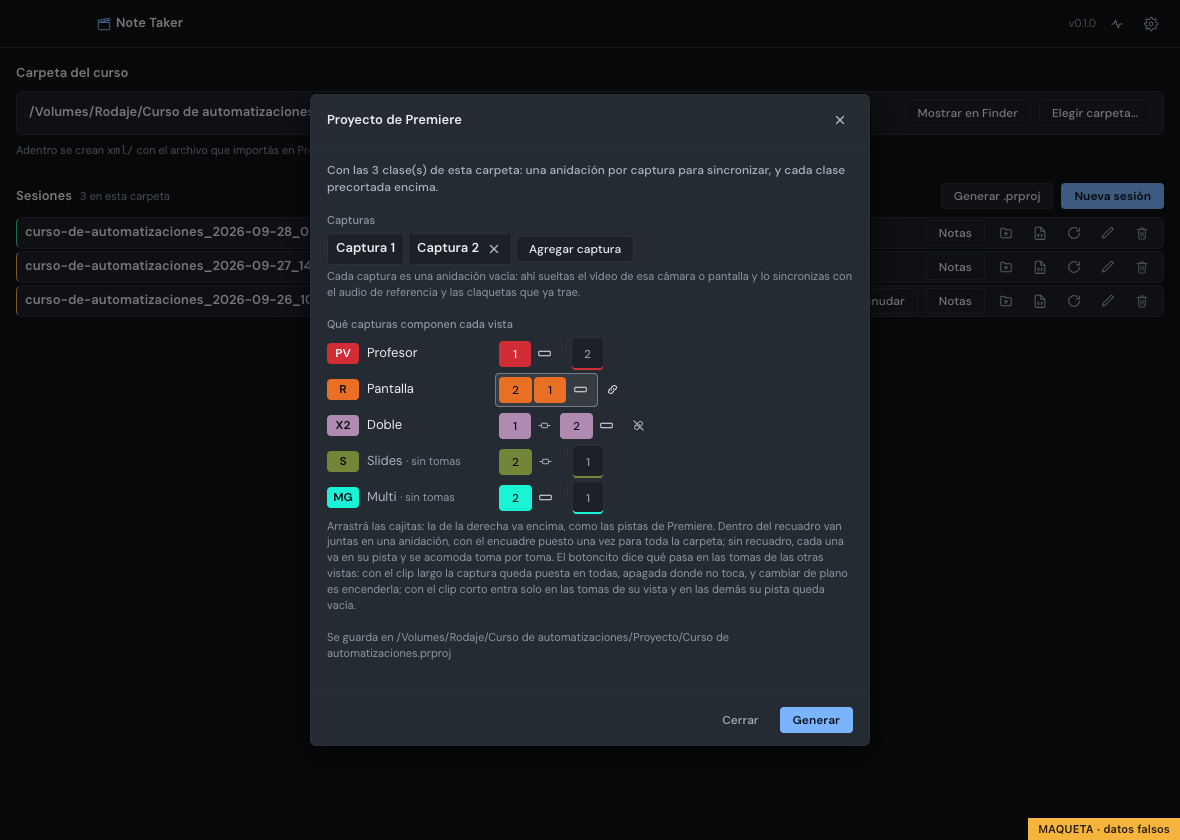
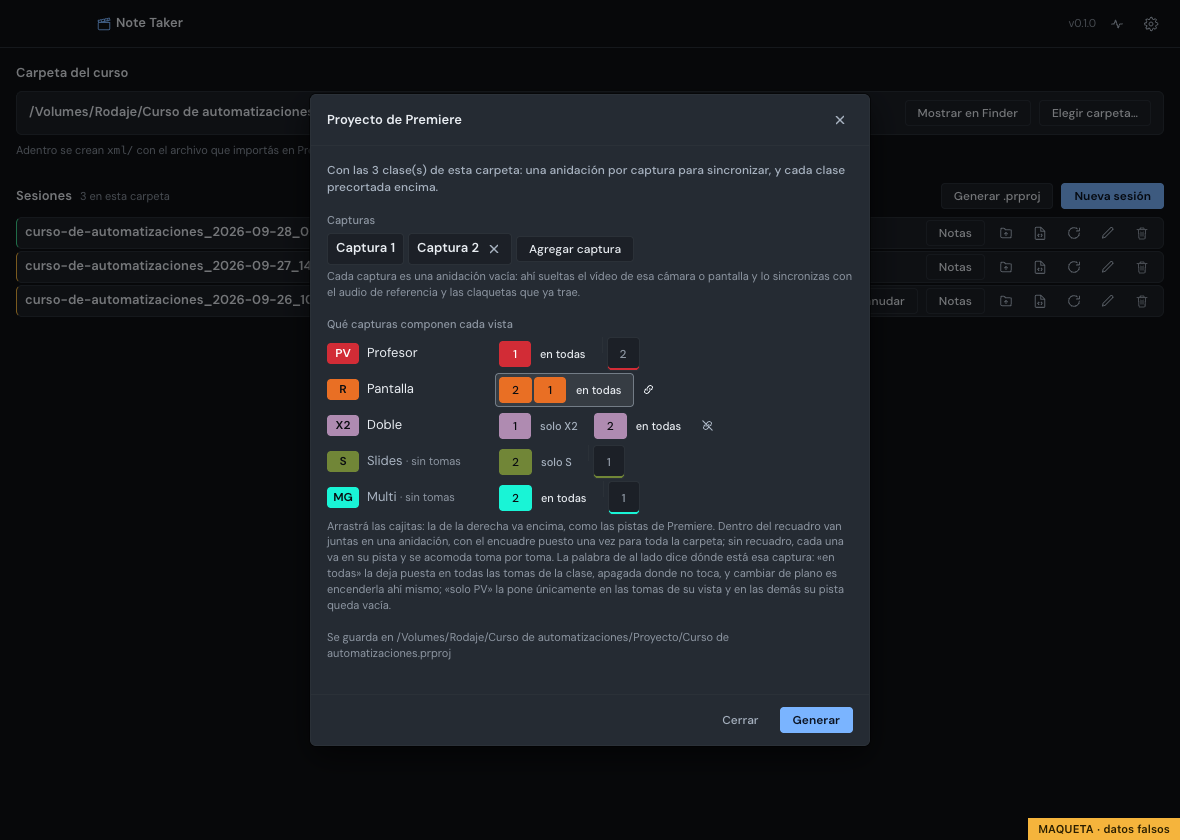
En el menú del .prproj, la palabra en lugar del cuadradito
Dónde está una captura —en todas las tomas de la clase, o solo en las de su
vista— estaba dicho con un dibujo: la pista vista de lejos, un clip largo
contra uno corto. A 15 px eran dos rectángulos que no decían nada y había que
apretarlos para enterarse de qué hacían.

Ahora lo dice la palabra que la captura lleva al lado: «en todas» o «solo PV»,
con la sigla de su vista. Es la misma regla que el resto de la app, donde los
estados van en palabras y no en color ni en forma, y de paso se lee la fila
entera de un vistazo sin pasar por ningún tooltip.

El hueco entre una captura y la siguiente se abrió a 8 px —adentro de la cajita
sigue en 1— porque con el mismo hueco de los dos lados «solo X2» parecía la
palabra de la captura de al lado. Y al soltar un arrastre, antes o después se
mide ahora contra el NÚMERO y no contra la cajita entera: la cajita incluye la
palabra, así que su mitad caía dentro de ella y soltar sobre el número vecino
siempre significaba «antes».

diff --git a/src/js/panel-prproj.js b/src/js/panel-prproj.js
@@ -121,16 +121,16 @@ function pintar() {
 
     // Lo del apilado sale solo cuando hay algo apilado: con una captura por
     // vista no hay nada que ordenar ni que anidar, y sería una línea de ruido.
-    // Lo del botoncito está siempre, porque el botoncito está siempre.
+    // Lo de «en todas» está siempre, porque esa palabra está siempre.
     const hayPilas = Object.values(config.vistas).some(v => v.capturas.length > 1);
     $('#prproj-pilas-dice').textContent = (hayPilas
         ? 'Arrastrá las cajitas: la de la derecha va encima, como las pistas de Premiere.'
             + ' Dentro del recuadro van juntas en una anidación, con el encuadre puesto una vez para'
             + ' toda la carpeta; sin recuadro, cada una va en su pista y se acomoda toma por toma. '
         : '')
-        + 'El botoncito dice qué pasa en las tomas de las otras vistas: con el clip largo la captura'
-        + ' queda puesta en todas, apagada donde no toca, y cambiar de plano es encenderla; con el'
-        + ' clip corto entra solo en las tomas de su vista y en las demás su pista queda vacía.';
+        + 'La palabra de al lado dice dónde está esa captura: «en todas» la deja puesta en todas las'
+        + ' tomas de la clase, apagada donde no toca, y cambiar de plano es encenderla ahí mismo;'
+        + ' «solo PV» la pone únicamente en las tomas de su vista y en las demás su pista queda vacía.';
 }
 
 /**
@@ -153,7 +153,7 @@ function cajita(vista, suya, id, encendida) {
                 >${id}</button>`;
     if (!encendida) return chip;
     // El número es el asa del arrastre y la cajita entera es el sitio donde se
-    // suelta: así soltar sobre el botoncito de al lado también cuenta.
+    // suelta: así soltar sobre la palabra de al lado también cuenta.
     return `<span class="prproj-caja" data-vista="${esc(vista.nombre)}" data-captura="${id}"
                 ${apilada ? 'data-arrastra="si"' : ''}
                 >${chip}${suya.unidas ? '' : siempre(vista, suya, [id])}</span>`;
@@ -166,21 +166,24 @@ function cajita(vista, suya, id, encendida) {
  * captura suelta, y uno solo para la anidación entera, que es un clip en una
  * sola pista y no se puede partir.
  *
- * El dibujo es la pista vista de lejos —el clip largo ocupa todas las tomas, el
- * corto solo las suyas— porque es exactamente lo que el editor va a ver al
- * abrir la precortada.
+ * **Lo dice con una palabra y no con un dibujo.** Estuvo dibujado —la pista
+ * vista de lejos, el clip largo contra el corto— y a 15 px eran dos rectángulos
+ * que no decían nada: había que apretarlos para enterarse de qué hacían. Las
+ * dos palabras son las dos respuestas a «¿dónde está esta captura?»: en todas
+ * las tomas, o solo en las de esta vista. Es la misma regla que el resto de la
+ * app, donde los estados van en palabras y no en color ni en forma.
  */
 function siempre(vista, suya, ids) {
     const puesta = ids.every(id => suya.siempre.includes(id));
     const quien = ids.length > 1 ? 'La anidación' : `La Captura ${ids[0]}`;
     const donde = esc(vista.titulo);
-    return `<button class="btn btn-tenue btn-ico prproj-siempre" type="button" data-hace="siempre"
+    return `<button class="btn btn-tenue prproj-siempre" type="button" data-hace="siempre"
                 data-vista="${esc(vista.nombre)}" ${ids.length > 1 ? '' : `data-captura="${ids[0]}"`}
                 aria-pressed="${puesta}"
                 title="${puesta
         ? `${quien} queda puesta en todas las tomas de la clase, encendida solo en las de ${donde}: cambiar de plano es encenderla ahí mismo. Clic para que entre solo en las tomas de ${donde}.`
         : `${quien} entra solo en las tomas de ${donde}; en las demás su pista queda vacía. Clic para dejarla puesta en todas, apagada donde no toca.`}"
-                >${icono(puesta ? 'pistaEntera' : 'pistaPorToma')}</button>`;
+                >${puesta ? 'en todas' : `solo ${esc(vista.nombre)}`}</button>`;
 }
 
 /**
@@ -323,7 +326,13 @@ function alSoltar(e) {
     const caja = destinoDe(e);
     if (!caja) return;
     e.preventDefault();
-    const sitio = caja.getBoundingClientRect();
+    // Antes o después se mide contra el NÚMERO y no contra la cajita entera: la
+    // cajita incluye la palabra de la derecha, así que su mitad caía dentro de
+    // la palabra y soltar sobre el número de al lado siempre significaba
+    // «antes». Contra el número, la palabra cuenta como «después», que es el
+    // lado donde está.
+    const chip = caja.querySelector('.btn-vista') || caja;
+    const sitio = chip.getBoundingClientRect();
     mover(arrastre.vista, arrastre.id, Number(caja.dataset.captura), e.clientX > sitio.left + sitio.width / 2);
     arrastre = null;
 }

diff --git a/src/css/style.css b/src/css/style.css
@@ -1836,12 +1836,19 @@ kbd {
   background: var(--hairline);
 }
 
-/* El número y su botoncito son una sola cajita: se arrastra del número, pero
-   soltar encima del botoncito cuenta igual, porque visualmente son lo mismo. */
+/* El número y su palabra son una sola cajita: se arrastra del número, pero
+   soltar encima de la palabra cuenta igual, porque visualmente son lo mismo.
+
+   Por eso el hueco de adentro es menor que el de afuera: con el mismo hueco en
+   los dos lados, «solo X2» parecía la palabra de la captura siguiente. */
 .prproj-caja {
   display: inline-flex;
   align-items: center;
   gap: 1px;
+}
+
+.prproj-pila:not(.es-anidada) {
+  gap: var(--sp-3);
 }
 
 .prproj-elige .btn-vista[draggable="true"] {
@@ -1853,13 +1860,29 @@ kbd {
   cursor: grabbing;
 }
 
-.prproj-une svg,
-.prproj-siempre svg {
+.prproj-une svg {
   width: 15px;
   height: 15px;
 }
 
-.prproj-une[aria-pressed="true"],
+.prproj-une[aria-pressed="true"] {
+  color: var(--text-primary);
+}
+
+/* «en todas» / «solo PV»: la palabra que dice dónde está esa captura.
+
+   Va en minúscula y chica, a la altura de la cajita: es un dato de la captura
+   que tiene al lado, no un control de la fila. Los dos estados valen lo mismo
+   —ninguno es «apagado»— así que ninguno se tiñe de color; el que está puesto
+   se lee más claro, nada más. */
+.prproj-siempre {
+  height: 26px;
+  padding: 0 7px;
+  font-size: 11px;
+  font-weight: 500;
+  white-space: nowrap;
+}
+
 .prproj-siempre[aria-pressed="true"] {
   color: var(--text-primary);
 }

diff --git a/src/js/iconos.js b/src/js/iconos.js
@@ -157,15 +157,6 @@ const DIBUJOS = {
     sinEnlace: '<path d="M10.3 13.7a3.4 3.4 0 0 1 0-4.8l2.4-2.4a3.4 3.4 0 0 1 4.8 4.8l-1.2 1.2"/>'
         + '<path d="M13.7 10.3a3.4 3.4 0 0 1 0 4.8l-2.4 2.4a3.4 3.4 0 0 1-4.8-4.8l1.2-1.2"/>'
         + '<path d="m4.6 4.6 14.8 14.8"/>',
-    // Qué hace una captura en las tomas de las otras vistas, en el mismo menú:
-    // el clip que ocupa la pista entera es «puesta en todas, apagada donde no
-    // toca», y el clip corto con la pista vacía a los lados es «solo en las
-    // tomas de su vista». Son dos pistas de Premiere vistas de lejos, que es lo
-    // que el botón decide.
-    pistaEntera: '<rect x="2.8" y="8.4" width="18.4" height="7.2" rx="1.6"/>',
-    pistaPorToma: '<rect x="7.4" y="8.4" width="9.2" height="7.2" rx="1.6"/>'
-        + '<path d="M2.6 12h3.4M18 12h3.4"/>',
-
     cerrar: '<path d="m6.4 6.4 11.2 11.2M17.6 6.4 6.4 17.6"/>',
     mas: '<path d="M12 5.2v13.6M5.2 12h13.6"/>'
 };

diff --git a/tools/maqueta/doble.js b/tools/maqueta/doble.js
@@ -188,7 +188,7 @@ window.nt = {
 
     // El menú del .prproj: dos capturas, una vista anidada y otra suelta —los
     // dos estados del botón de unir— y en X2 una captura puesta en todas las
-    // tomas y la otra solo en las suyas, que son los dos del botoncito.
+    // tomas y la otra solo en las suyas, que son las dos palabras del menú.
     prprojConfig: async carpeta => ({
         ok: true,
         config: {

diff --git a/README.md b/README.md
@@ -732,16 +732,20 @@ abre un menú para decir qué capturas hay y qué capturas componen cada vista.
     encima quede arriba; si dos vistas sueltas piden apilados contrarios no hay
     forma de cumplir las dos —las pistas son las mismas— y se avisa cuál quedó
     sin cumplir y que la solución es anidar una de las dos.
-- **Y cada captura dice qué hace en las tomas de las OTRAS vistas**, con el
-  botoncito de su cajita (uno solo para la anidación entera, que es un clip en
-  una sola pista):
-  - **clip largo**: queda **puesta en todas las tomas** de la clase, apagada
+- **Y cada captura dice qué hace en las tomas de las OTRAS vistas**, con la
+  palabra que lleva al lado (una sola para la anidación entera, que es un clip
+  en una sola pista):
+  - **«en todas»**: queda **puesta en todas las tomas** de la clase, apagada
     donde no le toca, y cambiar de plano es encenderla ahí mismo. Es como trabaja
     Class Cut, y es lo que viene puesto.
-  - **clip corto**: entra **solo en las tomas de su vista** y en las demás su
-    pista queda vacía. Línea de tiempo limpia, a cambio de que ahí ya no haya un
-    clip para encender. Si dos vistas comparten una pista y no piden lo mismo,
-    queda puesta y se avisa cuál quedó sin cumplir.
+  - **«solo PV»** (la sigla de su vista): entra **solo en las tomas de su vista**
+    y en las demás su pista queda vacía. Línea de tiempo limpia, a cambio de que
+    ahí ya no haya un clip para encender. Si dos vistas comparten una pista y no
+    piden lo mismo, queda puesta y se avisa cuál quedó sin cumplir.
+
+  Estuvo dibujado —la pista vista de lejos, un clip largo contra uno corto— y a
+  15 px eran dos rectángulos que había que apretar para saber qué hacían. Los
+  estados de esta app van en palabras, y este no era la excepción.
 - **Una secuencia precortada por clase**: las tomas que van al XML una detrás de
   otra, con los bordes ajustados a la onda. Hay un track de vídeo por cada
   captura o grupo que usan las vistas, y en cada toma solo está encendido el de
